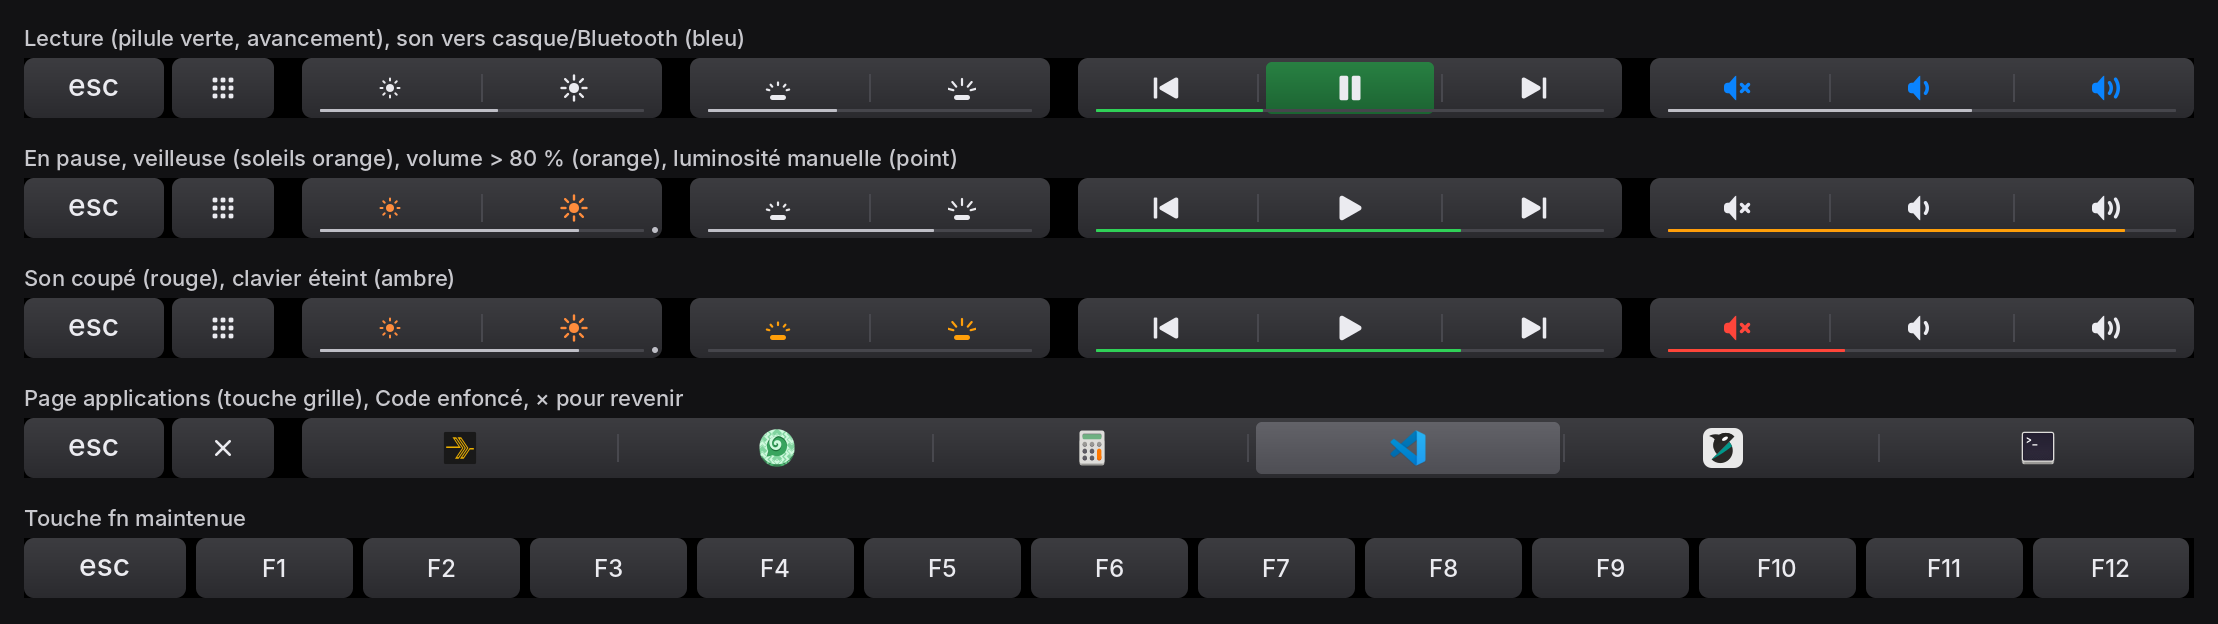
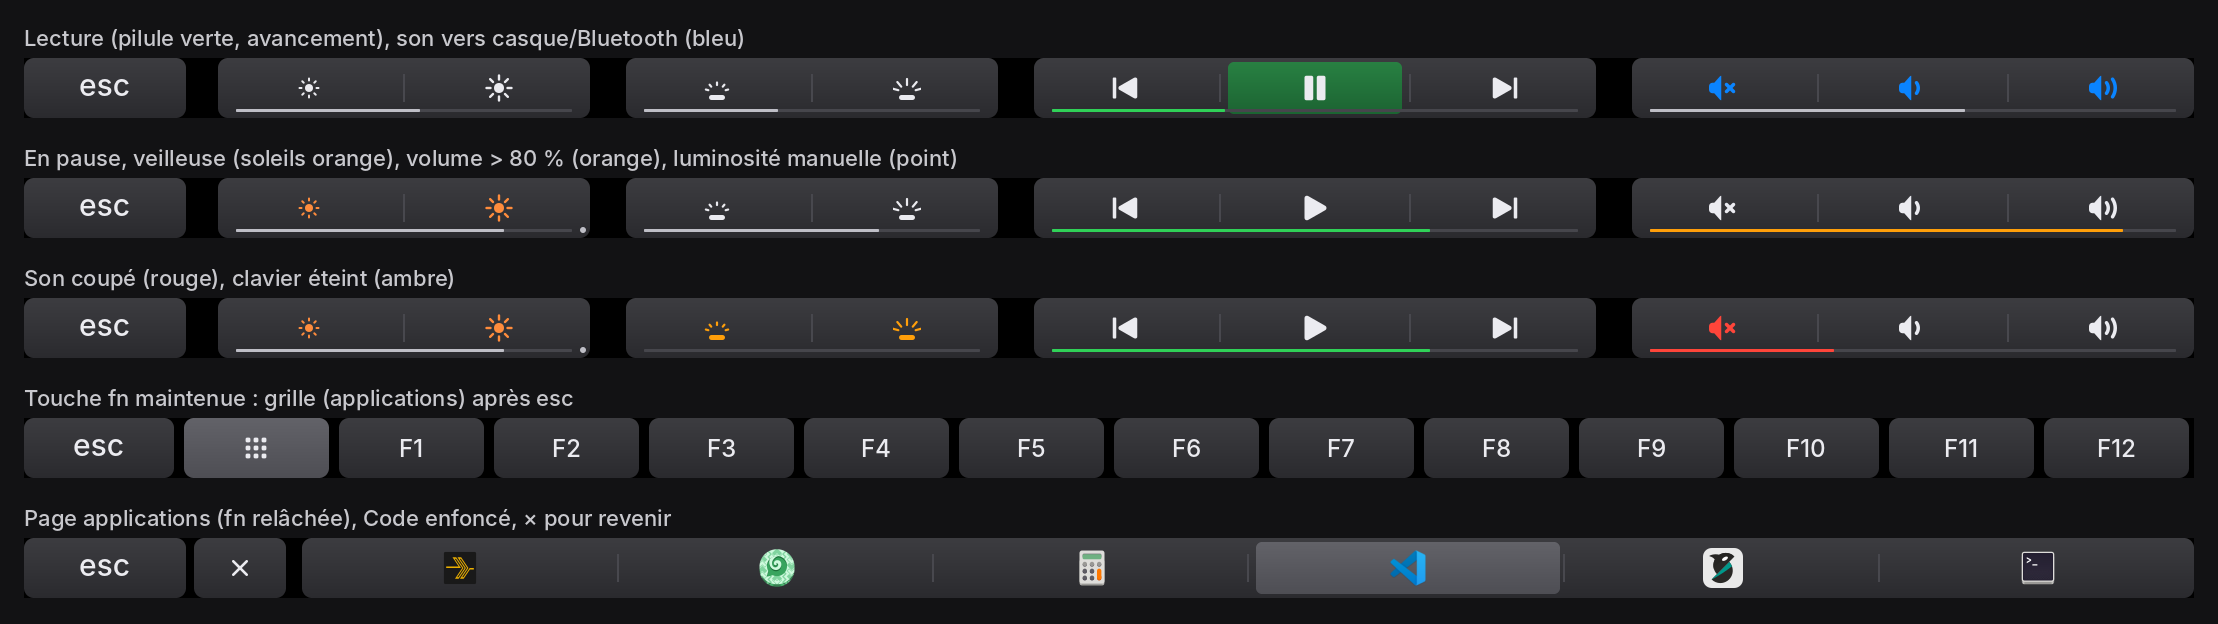
Touch Bar : touche applications dans la rangee Fn, apres esc

diff --git a/debian13/README.md b/debian13/README.md
@@ -782,10 +782,12 @@ veilleuse et la luminosité auto → ~150 ms en mode économie.
 
 ### Panneau d'applications
 
-La touche **grille** à droite d'esc remplace les contrôles par une page
-d'icônes en couleur ; un appui lance l'application et ramène la page normale,
-**×** referme sans rien lancer. Pour faire de la place, esc passe à 140 px et
-les contrôles à 176 px (au lieu de 182).
+La touche **grille** est dans la **rangée Fn**, juste après esc (fn maintenue :
+esc, grille, F1…F12 sur 14 touches ; sans application configurée, la rangée Fn
+reste à 13 touches). Un appui ouvre la page d'icônes en couleur, affichée une
+fois fn relâchée : esc, **×** pour refermer, puis les applications ; un appui
+sur une icône lance l'application et ramène la page normale. La rangée normale
+garde sa disposition (esc large, contrôles de 182 px).
 
 - liste : [`apps.conf`](touchbar/desktop-provider/apps.conf) →
   `~/.config/t1bridge/apps.conf`, un identifiant `.desktop` par ligne (Flatpak
